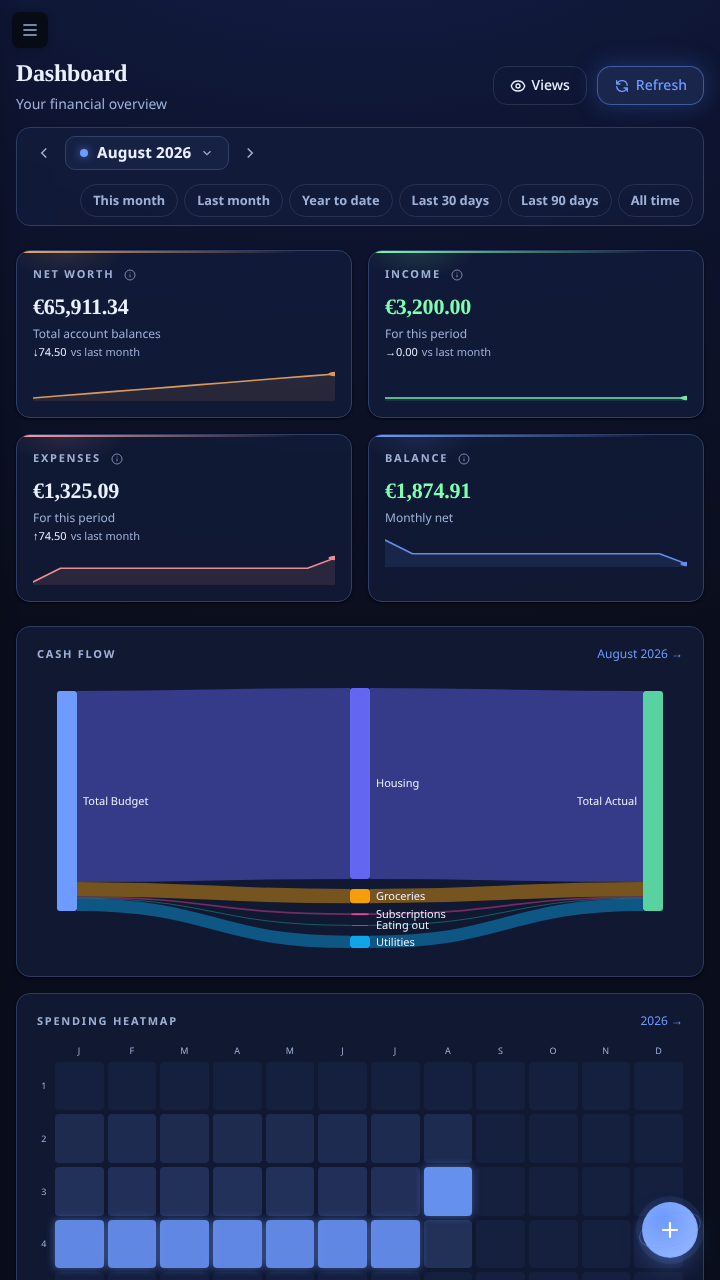
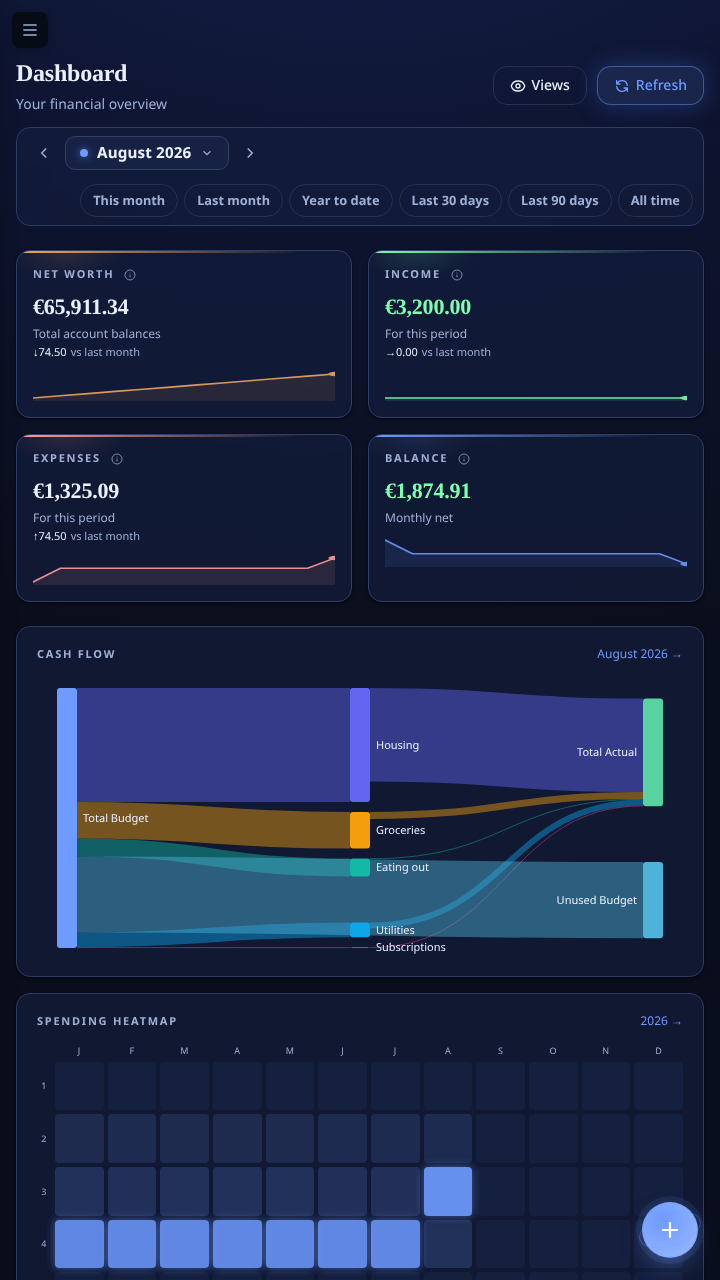
fix(marketing): the screenshot capturer drove a backend that no longer exists (#432)
Retiring backend/ took nuke-demo.js and the three-profile demo with it, so the
documented setup named three deleted files and the script posted a
{username, password} login at a Worker that wants {email, password}.

It now runs against the e2e suite's app — wrangler on a local D1, vite proxying
/api at it, the seeded fixture account — and looks the profile up by name
rather than pinning PROFILE=3, which was a fact about a database that is gone.
A wrong id is not an error anywhere; it is six shots of an empty profile.

The fixture gains four monthly budgets. The budgets page had nothing but an
empty state to render, which is what made 03-budgets the one frame that could
not be re-shot. Its start_date is the first of the current month: a budget's
period is derived from it, so one dated mid-month reads as a partial period and
every figure on the page becomes a fraction.

The two dashboard install screenshots are re-shot with the budget alerts the
seed now produces.

Changed region(s): [[0.0611, 0.5625, 0.9472, 0.75], [0.7028, 0.5312, 0.9167, 0.5625]]

diff --git a/frontend/tests/e2e-seed.ts b/frontend/tests/e2e-seed.ts
@@ -166,6 +166,28 @@ export async function seedProfile(
     })
   }
 
+  // Budgets on the four spending categories that carry transactions, so the budgets page and
+  // the dashboard's budget alerts have real progress to draw rather than an empty state. The
+  // start date is the first of the current month: a budget's period is derived from it, so one
+  // dated mid-month reads as a partial period and every figure on the page is a fraction.
+  const today = new Date(now)
+  const monthStart = new Date(Date.UTC(today.getUTCFullYear(), today.getUTCMonth(), 1))
+    .toISOString()
+    .slice(0, 10)
+  for (const b of [
+    { category: 'Housing', amount: 1400 },
+    { category: 'Groceries', amount: 450 },
+    { category: 'Eating out', amount: 220 },
+    { category: 'Utilities', amount: 180 },
+  ]) {
+    await post(api, '/api/budgets', profileId, {
+      category_id: categoryIds[b.category],
+      amount: b.amount,
+      period: 'monthly',
+      start_date: monthStart,
+    })
+  }
+
   // One of each, so both bill sections render. `mark-paid` is what actually makes a bill paid —
   // the field is derived from last_paid_date against the bill's frequency, not stored as a flag.
   await post(api, '/api/bills', profileId, {

diff --git a/docs/marketing-screenshots.md b/docs/marketing-screenshots.md
@@ -15,24 +15,41 @@ either repository could have told you that.
 ## Shooting a set
 
 This repository often has several worktrees running at once. **Do this in a
-worktree of your own, on ports nobody else is using** — `3847` and `3800` are
-the shared backend and Playwright ports. `db/*.db` is gitignored, so a fresh
-worktree gets its own database rather than sharing one.
+worktree of your own, on ports nobody else is using** — `8787` and `3800` are
+the e2e suite's. `worker/.wrangler` is gitignored, so a fresh worktree gets its
+own local D1 rather than sharing one.
+
+The app is the e2e suite's app: `wrangler dev` against a local D1, vite proxying
+`/api` at it, and the seeded fixture account. Three steps, because the capturer
+needs the servers to still be up when it runs and Playwright stops the ones it
+starts.
 
 ```sh
-# 1. seed this worktree's own db/test.db
-NODE_ENV=test node backend/scripts/nuke-demo.js
+# 1. the Worker, on ports of your own (it keeps running)
+cd worker
+pnpm run d1:migrate:local && pnpm exec wrangler dev --port 8790 &
 
-# 2. backend, on a port of your own
-NODE_ENV=test PORT=3947 node backend/index.js &
+# 2. the dev server pointed at it
+cd ../frontend
+API_PROXY_TARGET=http://127.0.0.1:8790 npx vite --port 3900 --strictPort &
 
-# 3. dev server pointed at it
-cd frontend
-API_PROXY_TARGET=http://127.0.0.1:3947 npx vite --port 3900 --strictPort &
+# 3. register and seed the fixture account against those two
+E2E_PORT=3900 E2E_API_PORT=8790 \
+  npx playwright test --config=playwright.shots.config.ts --project=setup
 
 # 4. shoot
-npm run marketing:shots
+BASE_URL=http://127.0.0.1:3900 npm run marketing:shots
 ```
+
+Step 3 is `--project=setup` deliberately: without it the config also re-shoots
+the PWA install screenshots into `public/`, which is a different job (see
+[PWA Install Assets](pwa-install-assets.md)). It is idempotent — run it again on
+a database that already has the account and it signs in and re-seeds what is
+missing.
+
+A capture against an unseeded database photographs six empty states without
+complaint, which is why the script checks each frame for content and prints the
+row and digit counts it found.
 
 Output lands in `frontend/local/marketing-shots/` (gitignored). To write
 straight into the gallery instead:
@@ -58,25 +75,44 @@ Both sites carry the gallery, so both need a version bump and a tag
 | `BASE_URL` | `http://127.0.0.1:3900`          | where the dev server is                     |
 | `OUT`      | `frontend/local/marketing-shots` | output directory                            |
 | `SHOT`     | all six                          | one slug or route, e.g. `SHOT=05-portfolio` |
-| `PROFILE`  | `3`                              | demo profile id                             |
+| `PROFILE`  | looked up                        | profile id; default is the fixture, by name |
+| `EMAIL`    | `e2e@tokencircles.test`          | account to sign in as                       |
+| `PASSWORD` | the fixture's                    | its password                                |
 | `LIGHT=1`  | off                              | light theme instead of the published dark   |
 | `CHROMIUM` | Playwright's own                 | chromium binary path                        |
 
-## Why seed with the script and not the endpoint
+## Where the data comes from
 
-Use `backend/scripts/nuke-demo.js`. **Not** `POST /api/profiles/reseed-demo`:
-the endpoint does not clear `portfolio_holdings`, so every call appends another
-copy of them. A database reseeded a few times shows a portfolio of the same two
-tickers repeated four times over, and the endpoint still answers
-`{"ok":true,"message":"Demo data has been restored"}`.
+`frontend/tests/e2e-seed.ts` — the same fixture the e2e suite runs against.
+Twenty-four months of transactions across six categories, two accounts, four
+monthly budgets, two savings goals, a loan, three holdings and two bills.
 
-## Why profile 3
+One fixture, shot by both, on purpose: a screenshot pipeline with its own idea
+of what the data looks like drifts from the app the moment either side moves,
+and it drifts silently — the frames still render.
 
-Profile 1 seeds two ETFs, which makes a threadbare portfolio frame. Profile 3
-("Example High Income") seeds eight tickers, and its transaction, budget and
-analytics data is correspondingly denser. Shooting a mixed set — five frames
-from one profile and one from another — puts a different profile name in one
-sidebar, so the whole set moves together.
+**Do not use `POST /api/profiles/reseed-demo`.** On the Worker it only resets
+the current profile to default categories; the rich three-profile demo it used
+to run is client-only now. It will empty the profile you are about to shoot.
+
+## What changed when the Express server went
+
+The published set before 2026-08-24 was shot from the Express server's demo
+profile 3 ("Example High Income"), seeded by `backend/scripts/nuke-demo.js`.
+That runtime and that script are gone — see [AGENTS.md](../AGENTS.md).
+
+The fixture account replaces them, and it is thinner: one checking account and
+one savings account rather than a full set, three tickers rather than eight.
+Frames that leaned on the old profile's density — `05-portfolio` most of all —
+read leaner. The content gates in the script were re-checked against the fixture
+and all six pass; they catch a collapse, they do not grade the frame.
+
+## Why the profile is looked up, not pinned
+
+The fixture profile's id is whatever the database handed out, so it differs
+between worktrees and between resets. The script reads `GET /api/profiles` and
+picks the one named `E2E Fixture`. A wrong id is not an error anywhere — it is
+six shots of somebody else's empty profile. Set `PROFILE` to override.
 
 ## Things that fail by looking fine
 
@@ -109,7 +145,10 @@ that one frame does not reproduce byte-for-byte later.
 It read a flat `€0.00` everywhere until the `yahoo-finance2` v3 client bug was
 found — the price lookup was throwing into a silent fallback, so every holding
 reported `currentPrice === purchase_price`. If the column ever goes flat again,
-suspect the app before the capture: `backend/services/yahooFinanceService.js`.
+suspect the app before the capture. The quote path is now
+`worker/src/routes/portfolio.ts` (the Express service that hosted the original
+bug is gone with the rest of that runtime), and it fails the same way: a lookup
+that cannot answer leaves the purchase price in place rather than erroring.
 
 ## Sizing
 

diff --git a/dev-changelog.md b/dev-changelog.md
@@ -89,6 +89,13 @@ All notable changes to Token Circles are documented here. The format is based on
   - `clearCaptcha()` replaces the four `resetTurnstile()` + `setTurnstileToken('')` pairs per form: a spent token has to take the status with it, or the form explains nothing under a button it has just disabled. A stuck widget stays stuck — resetting a script that never loaded does not load it.
   - `LoginModal` had no hint at all, only the disabled button; it now shares the same one.
   - Tests: `Turnstile.blocked.test.tsx` (12) — the message names the domain, `captchaIsStuck` over all seven states, the blocked panel and its Retry, the never-answering host, Retry as a real second request, a remount after a blocked load, the happy path, `error-callback`, and `expired` staying unblocked. Six mutations run — cached rejection, no timeout, `expired` as stuck, blocked-reports-ready, the domain dropped from the message, and `error-callback` reporting ready — each killed.
+- **The marketing capturer and its guide still drove the deleted Express server** (`frontend/scripts/gen-marketing-shots.mjs`, `docs/marketing-screenshots.md`, `frontend/tests/e2e-seed.ts`). Retiring `backend/` took `nuke-demo.js` and the three-profile demo with it, so the documented setup — `node backend/scripts/nuke-demo.js`, `node backend/index.js`, shoot profile 3 — named three things that no longer exist, and the script's login posted `{username, password}` at a Worker that wants `{email, password}`.
+  - The capturer now runs against the e2e suite's app: `wrangler dev` on a local D1, vite proxying `/api` at it, and the seeded fixture account. One fixture shot by both the suite and the stills, on purpose — a screenshot pipeline with its own idea of the data drifts from the app the moment either side moves, and it drifts silently, because the frames still render.
+  - **The profile is looked up by name, not pinned.** `PROFILE=3` was a fact about a database that no longer exists; the fixture's id is whatever D1 handed out and differs per worktree. The script reads `GET /api/profiles` and takes `E2E Fixture`, warning if it falls back. A wrong id is not an error anywhere — it is six shots of an empty profile.
+  - `EMAIL` / `PASSWORD` are overridable, defaulting to the fixture account.
+  - The doc's three-step setup is deliberate: the capturer needs the servers still up when it runs, and Playwright stops the ones it starts. Step three is `--project=setup` so seeding does not also re-shoot the PWA install screenshots.
+  - The stale `POST /api/profiles/reseed-demo` warning is replaced with the one that is now true: on the Worker it resets the current profile to default categories, so it empties the profile you are about to shoot. Same for the portfolio quote path, which is `worker/src/routes/portfolio.ts` now and fails the same silent way.
+- **The e2e fixture seeds budgets** (`frontend/tests/e2e-seed.ts`) — four monthly ones on the spending categories that carry transactions. The budgets page and the dashboard's budget alerts had nothing but an empty state to render, which is also what made `03-budgets` the one marketing frame that could not be re-shot. `start_date` is the first of the current month: a budget's period is derived from it, so one dated mid-month reads as a partial period and every figure on the page becomes a fraction.
 - **`exportBackup` aborted the entire backup on one unreadable R2 object** (`worker/src/backup.ts`, `worker/src/routes/exports.ts`). A receipt row whose `storage_path` no longer resolved threw `503 Receipt file "…" is unavailable; full backup aborted`, so an account with one orphaned receipt out of hundreds could not take a backup at all — and no retry fixes a blob that is gone.
   - Missing objects are now skipped and reported in `skippedReceipts` (`{receipt_id, original_name, reason}`) plus an `X-Backup-Skipped-Receipts` response header, because the browser downloads the file without parsing it and the UI needs somewhere to read the warning that is not a hundred megabytes of JSON.
   - The receipt's **metadata row is dropped with its bytes**. `validateBackup` requires every `receipts[]` entry to carry a matching `receiptFiles[]` entry, so a backup that listed a receipt it had no file for would export cleanly and then be rejected with a 422 on the way back in. Transactions pointing at a skipped receipt keep their row with `receipt_id` cleared — losing a purchase because its photo is missing would be a far worse trade than losing the pointer.
